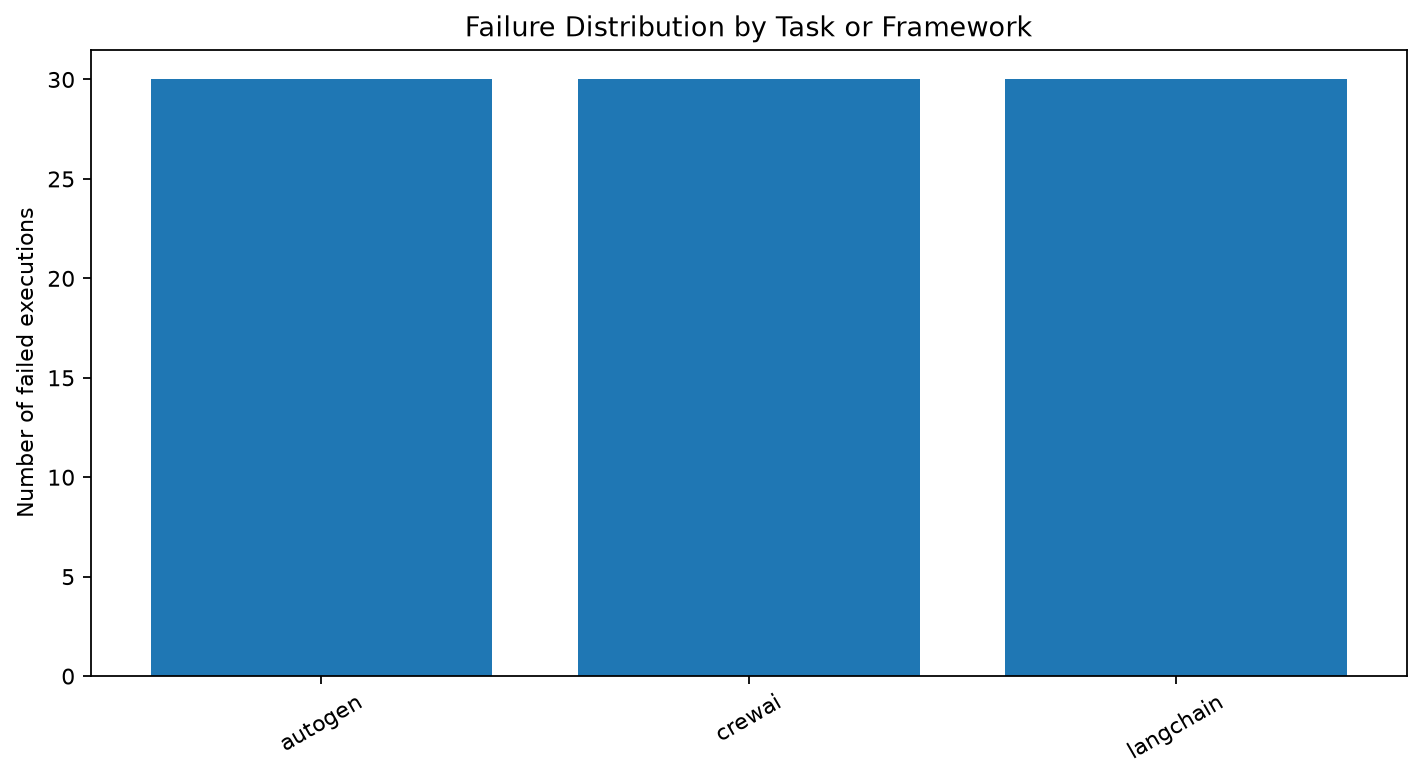
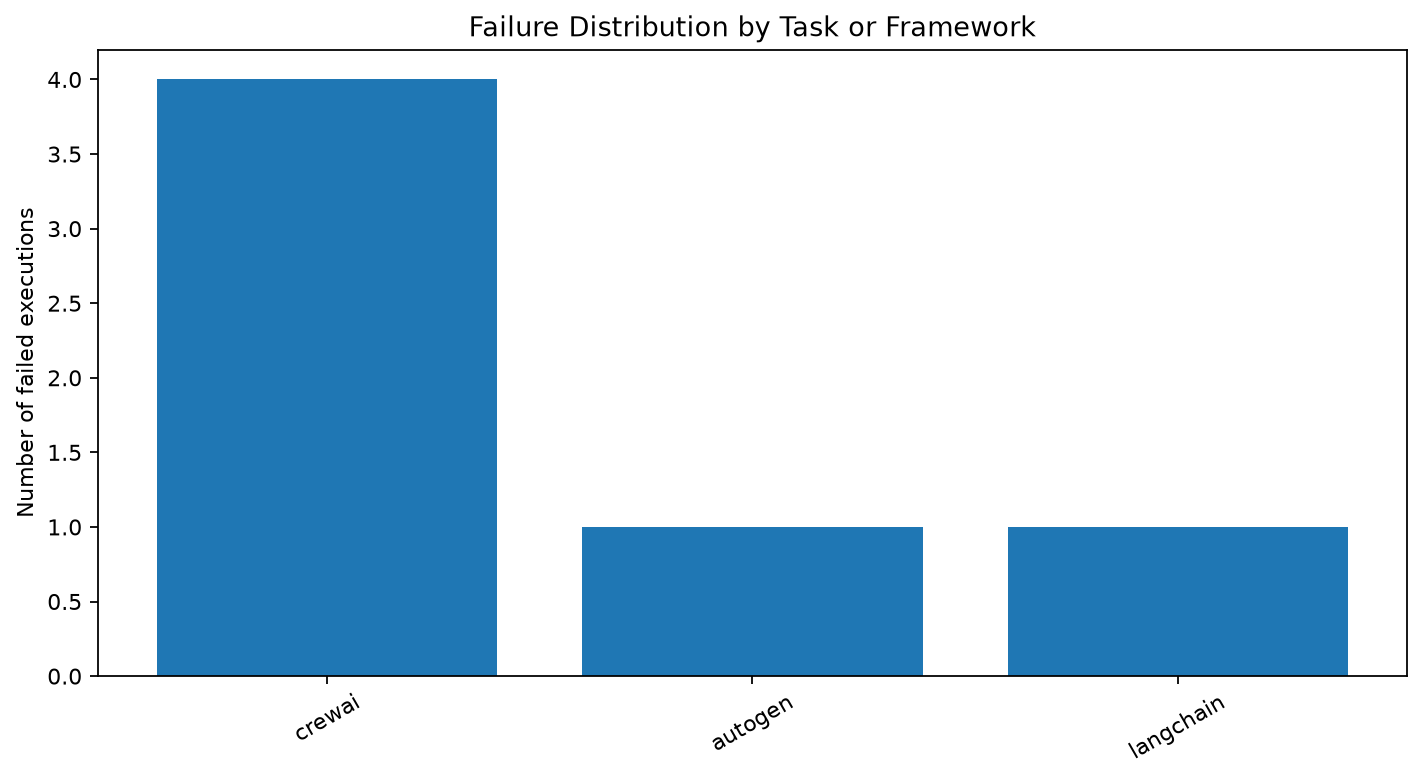
Update statistical validation, tables and figures

diff --git a/validation_scripts/visualization.py b/validation_scripts/visualization.py
@@ -1,4 +1,3 @@
-
 from pathlib import Path
 import warnings
 
@@ -314,48 +313,44 @@ def plot_ablation(ablation, figures_dir):
 # ============================================================
 
 def plot_repeatability(trust, figures_dir):
+    """Run-to-run spread: standard deviation of the repeated runs of each
+    task, shown per framework (one point = one task x framework pair)."""
 
-    if trust is None or trust.empty:
-        return skip_plot("Repeatability", "Execution data missing")
+    required = {"task_id", "framework", "composite_score"}
 
-    if not {"framework", "composite_score"}.issubset(trust.columns):
+    if trust is None or trust.empty or not required.issubset(trust.columns):
         return skip_plot(
             "Repeatability",
-            "framework or composite_score column missing"
+            "task_id, framework or composite_score column missing"
         )
 
-    data = trust[["framework", "composite_score"]].copy()
-
+    data = trust[["task_id", "framework", "composite_score"]].copy()
     data["composite_score"] = pd.to_numeric(
         data["composite_score"], errors="coerce"
     )
-
     data = data.dropna()
 
-    groups = []
-    labels = []
+    spread = (
+        data.groupby(["framework", "task_id"])["composite_score"]
+        .std(ddof=0)
+        .reset_index(name="std")
+    )
 
-    for framework, group in data.groupby("framework"):
+    groups, labels = [], []
 
-        scores = group["composite_score"].to_numpy()
-
-        if len(scores) > 0:
-            groups.append(scores)
-            labels.append(str(framework))
+    for framework, group in spread.groupby("framework"):
+        groups.append(group["std"].to_numpy())
+        labels.append(str(framework))
 
     if not groups:
         return skip_plot("Repeatability", "No usable scores")
 
     fig, ax = plt.subplots(figsize=(8, 5))
 
-    ax.boxplot(
-        groups,
-        tick_labels=labels
-    )
+    ax.boxplot(groups, tick_labels=labels)
 
-    ax.set_ylabel("Composite trust score")
-    ax.set_title("Repeatability Across Executions")
-    ax.set_ylim(0, 1)
+    ax.set_ylabel("Std. dev. of composite across repeated runs of a task")
+    ax.set_title("Repeatability: Run-to-Run Variation per Task")
     ax.tick_params(axis="x", rotation=20)
 
     return save_figure(
@@ -483,7 +478,7 @@ def plot_baseline_comparison(baseline, figures_dir):
 
     metric = numeric_column(
         baseline,
-        ["mean_composite", "mean_score",
+        ["overall_mean", "mean_composite", "mean_score",
          "composite_score", "score"]
     )
 
@@ -509,7 +504,8 @@ def plot_baseline_comparison(baseline, figures_dir):
         data[metric]
     )
 
-    ax.set_ylabel("Mean composite trust score")
+    ax.set_ylabel("Overall mean score (720 runs)")
+    ax.set_ylim(0, 1.05)
     ax.set_title("Baseline Comparison")
     ax.tick_params(axis="x", rotation=20)
 
@@ -599,7 +595,7 @@ def plot_failure_distribution(failures, figures_dir):
 
     count = numeric_column(
         failures,
-        ["failure_count", "failures", "n_failures", "count"]
+        ["n_failed", "failure_count", "failures", "n_failures", "count"]
     )
 
     if count:
